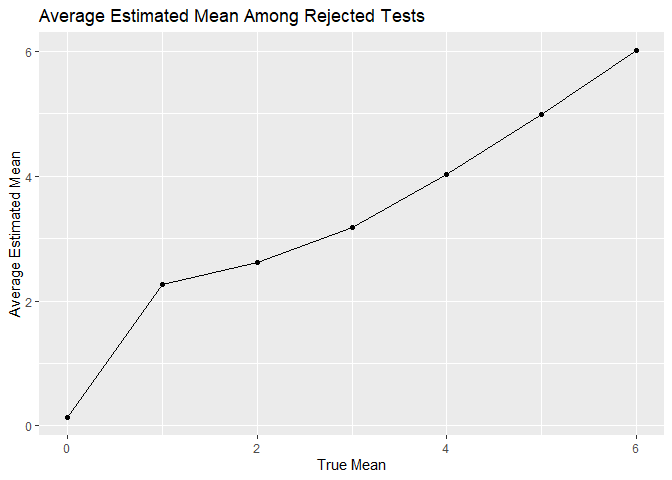
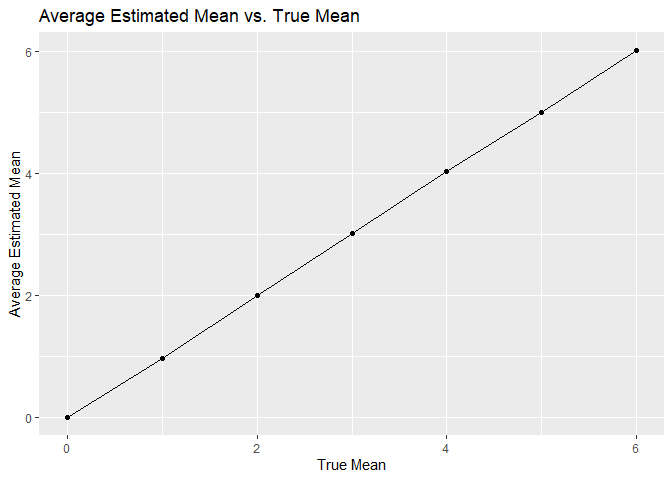
revise problem 3

diff --git a/p8105_hw5_jl7322.md b/p8105_hw5_jl7322.md
@@ -158,12 +158,26 @@ sim_t_test = function(mu) {
 }
 ```
 
-Repeated the simulation 5000 times for each true mean from 0 to 6.
+Repeated the simulation 5000 times with the true mean set to 0.
 
 ``` r
-sim_results =
+sim_results_0 =
+  tibble(
+    mu = 0,
+    iteration = 1:5000
+  ) |>
+  mutate(
+    result = map(mu, sim_t_test)
+  ) |>
+  unnest(result)
+```
+
+Repeated the simulation 5000 times for each true mean from 1 to 6.
+
+``` r
+sim_results_alt =
   expand_grid(
-    mu = 0:6,
+    mu = 1:6,
     iteration = 1:5000
   ) |>
   mutate(
@@ -176,6 +190,12 @@ Then calculated the power of the test for each true mean and make the
 plot.
 
 ``` r
+sim_results =
+  bind_rows(
+    sim_results_0,
+    sim_results_alt
+  )
+
 power_results =
   sim_results |>
   group_by(mu) |>
@@ -194,7 +214,7 @@ power_results |>
   )
 ```
 
-![](p8105_hw5_jl7322_files/figure-gfm/unnamed-chunk-8-1.png)<!-- -->
+![](p8105_hw5_jl7322_files/figure-gfm/unnamed-chunk-9-1.png)<!-- -->
 
 ##### Conclusion
 
@@ -224,7 +244,7 @@ mean_estimates |>
   )
 ```
 
-![](p8105_hw5_jl7322_files/figure-gfm/unnamed-chunk-9-1.png)<!-- -->
+![](p8105_hw5_jl7322_files/figure-gfm/unnamed-chunk-10-1.png)<!-- -->
 
 Next, I calculated the average estimate only among simulations in which
 the null hypothesis was rejected and make the plot.
@@ -249,7 +269,9 @@ rejected_estimates |>
   )
 ```
 
-![](p8105_hw5_jl7322_files/figure-gfm/unnamed-chunk-10-1.png)<!-- -->
+![](p8105_hw5_jl7322_files/figure-gfm/unnamed-chunk-11-1.png)<!-- -->
+
+##### Conclusion
 
 The average estimated mean across all simulations is approximately equal
 to the true mean. However, among simulations where the null hypothesis
